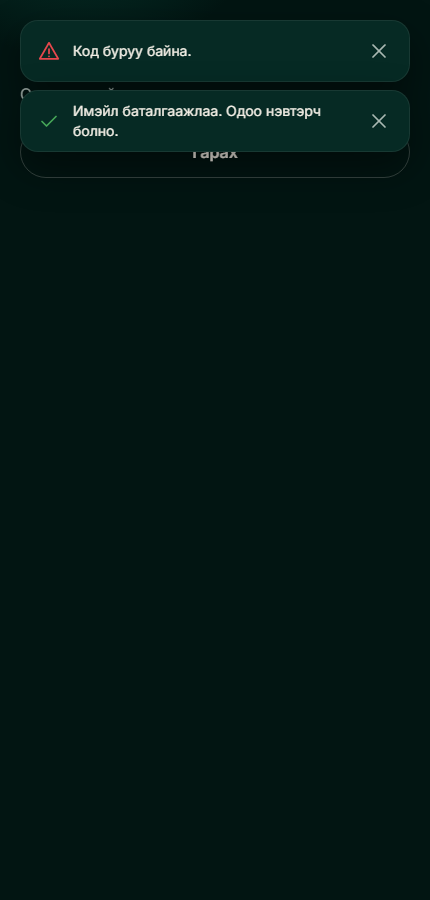
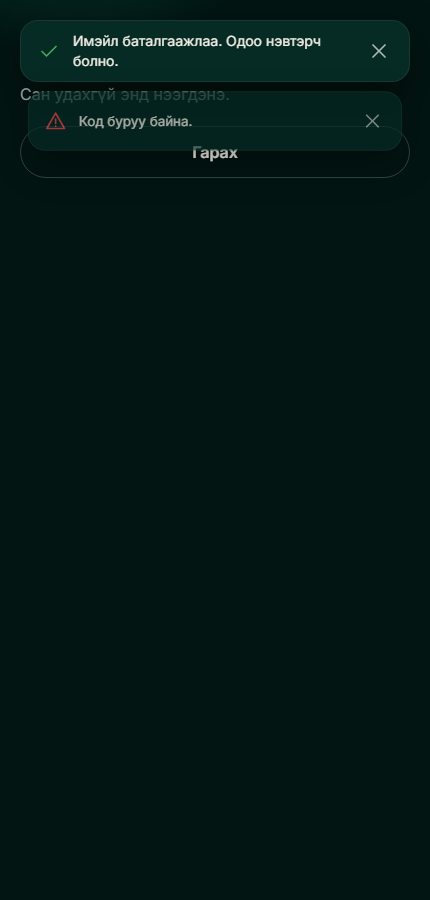
Terms/privacy links behind EXPO_PUBLIC_PORTAL_URL, login text links, toast stacking, device-gate runbook
mobile unit 100, tokens 13, auth e2e 10/10. Device gate NOT run (no Android SDK / EAS login on this machine).

Changed region(s): [[0.0605, 0.0311, 0.7558, 0.1867], [0.907, 0.0933, 0.9674, 0.1244], [0.8465, 0.1244, 0.907, 0.1556]]

diff --git a/docs/design/v2-screens/Home.dc.html b/docs/design/v2-screens/Home.dc.html
@@ -36,6 +36,12 @@ a{color:#F3EFE6;text-decoration:none}a:hover{color:#F3EFE6}
 @keyframes prog{from{width:34%}to{width:36%}}
 .hdr{transition:opacity .25s,transform .35s cubic-bezier(.22,1,.36,1)}
 .tab{transition:color .25s}
+.catcard{transition:transform .22s cubic-bezier(.3,1.4,.5,1)}
+.catcard .catimg{transition:transform .9s cubic-bezier(.22,1,.36,1)}
+.catcard .chev{transition:transform .35s cubic-bezier(.3,1.4,.5,1)}
+.catcard:hover .catimg,.catcard:active .catimg{transform:scale(1.08)}
+.catcard:hover .chev,.catcard:active .chev{transform:translateX(4px)}
+.catcard:active{transform:scale(.97)}
 @media (prefers-reduced-motion: reduce){*{animation:none!important;transition:none!important}}
 </style>
 </helmet>
@@ -129,14 +135,24 @@ a{color:#F3EFE6;text-decoration:none}a:hover{color:#F3EFE6}
         </div>
       </section>
 
-      <section class="in d5" aria-label="Ангилал">
-        <h2 style="margin: 0 0 12px; font-size: 20px; line-height: 26px; font-weight: 600;">Ангилал</h2>
-        <div style="display: grid; grid-template-columns: repeat(2, minmax(0, 1fr)); gap: 12px;">
+      <section class="in d5" aria-label="Сэдвээр сонсох">
+        <div style="display: flex; align-items: baseline; justify-content: space-between; margin-bottom: 12px;">
+          <h2 style="margin: 0; font-size: 20px; line-height: 26px; font-weight: 600;">Сэдвээр сонсох</h2>
+          <a href="Library.dc.html" style="font-size: 14px; color: #D4AF6A; font-weight: 500; min-height: 44px; display: flex; align-items: center; margin: -12px 0;">Бүгд ›</a>
+        </div>
+        <div style="display: flex; flex-direction: column; gap: 12px;">
           <sc-for list="{{cats}}" as="c" hint-placeholder-count="4">
-            <a href="Library.dc.html" class="press" style="position: relative; height: 92px; border-radius: 18px; overflow: hidden; padding: 14px; box-sizing: border-box; display: flex; flex-direction: column; justify-content: space-between; background: {{c.bg}}; box-shadow: inset 0 0 0 1px rgba(243,239,230,.07);">
-              <svg width="72" height="72" viewBox="0 0 24 24" fill="none" stroke="rgba(243,239,230,.10)" stroke-width="1.2" stroke-linecap="round" stroke-linejoin="round" style="position: absolute; right: -10px; bottom: -12px;"><path d="{{c.icon}}"></path></svg>
-              <span style="font-size: 16px; line-height: 22px; font-weight: 600;">{{c.name}}</span>
-              <span style="font-size: 12px; line-height: 16px; color: #C9D3CF;">{{c.count}}</span>
+            <a href="Library.dc.html" class="catcard" style="position: relative; height: 104px; border-radius: 20px; overflow: hidden; display: flex; align-items: center; background: #041F1A; box-shadow: inset 0 0 0 1px rgba(243,239,230,.08);">
+              <img src="{{c.img}}" alt="" class="catimg" style="position: absolute; left: 0; top: 0; width: {{c.imgW}}; height: 100%; object-fit: cover; object-position: {{c.pos}};">
+              <span style="position: absolute; inset: 0; background: linear-gradient(90deg, rgba(4,31,26,0) 18%, rgba(4,31,26,.78) 46%, #041F1A 64%);"></span>
+              <span style="position: absolute; left: 0; top: 0; bottom: 0; width: 3px; background: {{c.tint}};"></span>
+              <span style="position: relative; margin-left: 46%; flex: 1; min-width: 0; display: flex; flex-direction: column; gap: 2px;">
+                <span class="serif" style="font-size: 19px; line-height: 24px; font-weight: 600;">{{c.name}}</span>
+                <span style="font-size: 12px; line-height: 16px; color: #C9D3CF;">{{c.sub}}</span>
+              </span>
+              <span class="chev" style="position: relative; flex: none; width: 44px; height: 44px; margin-right: 8px; display: flex; align-items: center; justify-content: center;">
+                <svg width="18" height="18" viewBox="0 0 24 24" fill="none" stroke="#F3EFE6" stroke-width="2" stroke-linecap="round" stroke-linejoin="round"><path d="M9 6l6 6-6 6"></path></svg>
+              </span>
             </a>
           </sc-for>
         </div>
@@ -242,12 +258,14 @@ class Component extends DCLogic {
       ['№ 059', 'Анхаарал', 'Анхаарал төвлөрлийг сэргээх', '25 мин', G.t],
       ['№ 058', 'Утга учир', 'Ажлын утга учрыг олох', '31 мин', G.m]
     ].map(([n, t, full, d, bg], k) => ({ n, t, full, d, bg, delay: (0.3 + k * 0.06) + 's' }));
+    const ELDER = '/_blob/7e505eac9fd24b851203576d27700232';
+    const YURT = '/_blob/335c29b78659a83d96c0d22f8845b191';
     const cats = [
-      { name: 'Сэтгэл зүй', count: '24 дугаар', bg: 'linear-gradient(135deg,#0B4A3F,#04231D)', icon: 'M12 3a7 7 0 0 0-4 12.7V20h8v-4.3A7 7 0 0 0 12 3z' },
-      { name: 'Хувь хүний хөгжил', count: '18 дугаар', bg: 'linear-gradient(135deg,#3B2C14,#160F06)', icon: 'M4 20l5-9 4 6 3-4 4 7z' },
-      { name: 'Харилцаа', count: '12 дугаар', bg: 'linear-gradient(135deg,#123F4A,#061C22)', icon: 'M8 12a4 4 0 1 0 0-8 4 4 0 0 0 0 8zm8 8a4 4 0 1 0 0-8 4 4 0 0 0 0 8z' },
-      { name: 'Санхүү', count: '9 дугаар', bg: 'linear-gradient(135deg,#2C3D1A,#0F1A08)', icon: 'M4 18h16M6 14l4-4 3 3 5-6' }
-    ];
+      { name: 'Сэтгэл зүй', sub: '24 дугаар · Ухаан', img: ELDER, imgW: '62%', pos: '30% 30%', tint: '#2FA88A' },
+      { name: 'Хувь хүний хөгжил', sub: '18 дугаар', img: RIDERS, imgW: '70%', pos: '60% 60%', tint: '#D4AF6A' },
+      { name: 'Харилцаа', sub: '12 дугаар · Гэр бүл', img: YURT, imgW: '62%', pos: '40% 60%', tint: '#1C6E7F' },
+      { name: 'Санхүү', sub: '9 дугаар · Мөнгө', img: MOUNT, imgW: '70%', pos: '30% 50%', tint: '#B8934F' }
+    ].map((c, k) => ({ ...c, delay: (0.35 + k * 0.07) + 's' }));
     const L = this.state.left;
     const d = Math.floor(L / 86400), h = Math.floor((L % 86400) / 3600), m = Math.floor((L % 3600) / 60), s = L % 60;
     const pad = (x) => (x < 10 ? '0' + x : String(x));

diff --git a/apps/mobile/app/(auth)/welcome.tsx b/apps/mobile/app/(auth)/welcome.tsx
@@ -1,11 +1,20 @@
 import { useRouter } from 'expo-router';
-import { StyleSheet, Text, View } from 'react-native';
+import { Linking, StyleSheet, Text, View } from 'react-native';
 import { LinearGradient } from 'expo-linear-gradient';
 import { useSafeAreaInsets } from 'react-native-safe-area-context';
 import { layout, nativeTextStyle, spacing, themes, withAlpha } from '@ongod/tokens';
 import { CoverMarquee } from '../../src/components/CoverMarquee';
+import { env } from '../../src/config/env';
 import { mn } from '../../src/i18n/mn';
-import { AuroraBackground, Button, Enter, MountainLine, SurfaceProvider } from '../../src/ui';
+import { portalLink } from '../../src/lib/portalLink';
+import {
+  AuroraBackground,
+  Button,
+  Enter,
+  MountainLine,
+  PressableScale,
+  SurfaceProvider,
+} from '../../src/ui';
 
 const dark = themes.dark;
 
@@ -17,6 +26,8 @@ const dark = themes.dark;
 export default function Welcome() {
   const router = useRouter();
   const insets = useSafeAreaInsets();
+  // Hidden until the portal address is set (EXPO_PUBLIC_PORTAL_URL).
+  const termsUrl = portalLink(env.portalUrl, '/terms');
   return (
     <SurfaceProvider surface="dark">
       <View style={styles.root}>
@@ -48,6 +59,23 @@ export default function Welcome() {
               onPress={() => router.push('/register')}
             />
           </Enter>
+          {termsUrl ? (
+            <Enter index={4}>
+              <PressableScale
+                accessibilityRole="link"
+                accessibilityLabel={`${mn.legal.agreeBefore}${mn.legal.terms}${mn.legal.agreeAfter}`}
+                onPress={() => void Linking.openURL(termsUrl)}
+                haptics={false}
+                style={styles.terms}
+              >
+                <Text style={styles.termsText}>
+                  {mn.legal.agreeBefore}
+                  <Text style={styles.termsLink}>{mn.legal.terms}</Text>
+                  {mn.legal.agreeAfter}
+                </Text>
+              </PressableScale>
+            </Enter>
+          ) : null}
         </View>
       </View>
     </SurfaceProvider>
@@ -79,4 +107,7 @@ const styles = StyleSheet.create({
     ...nativeTextStyle('body'),
   },
   actions: { alignSelf: 'stretch', gap: spacing.sm, marginTop: spacing.lg },
+  terms: { minHeight: layout.touchTarget, justifyContent: 'center' },
+  termsText: { color: dark.textTertiary, textAlign: 'center', ...nativeTextStyle('caption') },
+  termsLink: { textDecorationLine: 'underline' },
 });

diff --git a/apps/mobile/app/(auth)/login.tsx b/apps/mobile/app/(auth)/login.tsx
@@ -8,7 +8,7 @@ import { AuthHeader } from '../../src/components/AuthHeader';
 import { SocialButtons } from '../../src/components/SocialButtons';
 import { mn } from '../../src/i18n/mn';
 import { useSubmit } from '../../src/lib/useSubmit';
-import { Button, Input, Screen, useToast } from '../../src/ui';
+import { Button, Input, Screen, TextLink, useToast } from '../../src/ui';
 
 /**
  * After the email code or a password reset the flow comes back to this screen with the email
@@ -67,30 +67,28 @@ function LoginForm({ email, notice }: { email: string | undefined; notice: strin
         textContentType="username"
         returnKeyType="next"
       />
-      <Input
-        label={mn.login.password}
-        value={password}
-        onChangeText={setPassword}
-        error={errors.password}
-        secureTextEntry
-        autoCapitalize="none"
-        autoComplete="current-password"
-        textContentType="password"
-        returnKeyType="go"
-        onSubmitEditing={() => void submit()}
-      />
-      <Button
-        label={mn.login.forgot}
-        variant="ghost"
-        onPress={() => router.push('/forgot-password')}
-      />
+      <View>
+        <Input
+          label={mn.login.password}
+          value={password}
+          onChangeText={setPassword}
+          error={errors.password}
+          secureTextEntry
+          autoCapitalize="none"
+          autoComplete="current-password"
+          textContentType="password"
+          returnKeyType="go"
+          onSubmitEditing={() => void submit()}
+        />
+        <TextLink label={mn.login.forgot} onPress={() => router.push('/forgot-password')} />
+      </View>
       <Button label={mn.login.submit} fullWidth loading={pending} onPress={() => void submit()} />
       <SocialButtons />
       <View style={styles.footer}>
         <Text style={styles.footerText}>{mn.login.noAccount}</Text>
-        <Button
+        <TextLink
           label={mn.login.register}
-          variant="ghost"
+          align="start"
           onPress={() => router.replace('/register')}
         />
       </View>

diff --git a/apps/mobile/src/ui/Toast.tsx b/apps/mobile/src/ui/Toast.tsx
@@ -53,11 +53,14 @@ const OFFSCREEN = 2;
 
 function ToastView({
   item,
+  older,
   closeLabel,
   durationMs,
   onDismiss,
 }: {
   item: ToastItem;
+  /** Not the newest: shown smaller and dimmer. */
+  older: boolean;
   closeLabel: string;
   durationMs: number;
   onDismiss: (id: number) => void;
@@ -100,7 +103,19 @@ function ToastView({
       }
     });
 
-  const animated = useAnimatedStyle(() => ({ transform: [{ translateY: y.value }] }));
+  // 0 = newest, 1 = older (scale .96, opacity 70%).
+  const dim = useSharedValue(0);
+  useEffect(() => {
+    dim.value = withSpring(older ? 1 : 0, springs.smooth);
+  }, [older, dim]);
+
+  const animated = useAnimatedStyle(() => ({
+    opacity: 1 - dim.value * (1 - motion.toastOlderOpacity),
+    transform: [
+      { translateY: y.value },
+      { scale: 1 - dim.value * (1 - motion.toastOlderScale) },
+    ],
+  }));
 
   return (
     <GestureDetector gesture={swipe}>
@@ -151,7 +166,11 @@ export function ToastProvider({
   );
   const show = useCallback<ToastApi['show']>((message, options) => {
     const id = nextId.current++;
-    setItems((all) => [...all.slice(-2), { id, message, tone: options?.tone ?? 'info' }]);
+    // At most `toastMax` at once: the oldest makes room for the new one.
+    setItems((all) => [
+      ...all.slice(-(motion.toastMax - 1)),
+      { id, message, tone: options?.tone ?? 'info' },
+    ]);
   }, []);
   const api = useMemo(() => ({ show }), [show]);
 
@@ -162,10 +181,12 @@ export function ToastProvider({
         pointerEvents="box-none"
         style={[hostStyles.host, { top: layout.screenPadding + insets.top }]}
       >
-        {items.map((item) => (
+        {/* Newest on top; the one below it is the older one. */}
+        {[...items].reverse().map((item, index) => (
           <ToastView
             key={item.id}
             item={item}
+            older={index > 0}
             closeLabel={closeLabel}
             durationMs={durationMs}
             onDismiss={dismiss}

diff --git a/apps/mobile/src/ui/TextLink.tsx b/apps/mobile/src/ui/TextLink.tsx
@@ -1,0 +1,42 @@
+import { StyleSheet, Text, View } from 'react-native';
+import { layout, nativeFontFamily, nativeTextStyle, type ThemeColors } from '@ongod/tokens';
+import { useThemedStyles } from './surface';
+import { PressableScale } from './usePressScale';
+
+/**
+ * A small text action (gold on dark, ink on cream), 14 pt, with a 44 pt tall touch area. For the
+ * secondary actions that must not look like buttons ("Нууц үгээ мартсан уу?"). Announced as a
+ * button.
+ */
+export function TextLink({
+  label,
+  onPress,
+  align = 'end',
+}: {
+  label: string;
+  onPress: () => void;
+  /** Where it sits in a full-width row. */
+  align?: 'start' | 'center' | 'end';
+}) {
+  const styles = useThemedStyles(makeStyles);
+  const justify = { start: 'flex-start', center: 'center', end: 'flex-end' } as const;
+  return (
+    <View style={[styles.row, { justifyContent: justify[align] }]}>
+      <PressableScale
+        accessibilityRole="button"
+        accessibilityLabel={label}
+        onPress={onPress}
+        style={styles.hit}
+      >
+        <Text style={styles.label}>{label}</Text>
+      </PressableScale>
+    </View>
+  );
+}
+
+const makeStyles = (c: ThemeColors) =>
+  StyleSheet.create({
+    row: { flexDirection: 'row' },
+    hit: { minHeight: layout.touchTarget, justifyContent: 'center' },
+    label: { color: c.accentText, ...nativeTextStyle('small'), fontFamily: nativeFontFamily.ui[500] },
+  });

diff --git a/apps/mobile/test/portal-link.test.ts b/apps/mobile/test/portal-link.test.ts
@@ -1,0 +1,21 @@
+import assert from 'node:assert/strict';
+import { test } from 'node:test';
+import { portalLink } from '../src/lib/portalLink';
+
+test('no portal URL: no link (the screens hide it)', () => {
+  assert.equal(portalLink(undefined, '/terms'), undefined);
+  assert.equal(portalLink('', '/terms'), undefined);
+  assert.equal(portalLink('   ', '/privacy'), undefined);
+});
+
+test('a portal URL gives the page address, trailing slashes removed', () => {
+  assert.equal(portalLink('https://portal.example.test', '/terms'), 'https://portal.example.test/terms');
+  assert.equal(portalLink('https://portal.example.test///', '/privacy'), 'https://portal.example.test/privacy');
+  assert.equal(portalLink(' http://192.168.1.5:3000 ', '/terms'), 'http://192.168.1.5:3000/terms');
+});
+
+test('anything that is not an http(s) address is refused', () => {
+  assert.equal(portalLink('javascript:alert(1)', '/terms'), undefined);
+  assert.equal(portalLink('ongod.example', '/terms'), undefined);
+  assert.equal(portalLink('ftp://example.test', '/terms'), undefined);
+});

diff --git a/apps/mobile/src/i18n/mn.ts b/apps/mobile/src/i18n/mn.ts
@@ -42,6 +42,15 @@ export const mn = {
     open: 'Дэлгүүр нээх',
   },
 
+  /** Legal pages on the portal; shown only when EXPO_PUBLIC_PORTAL_URL is set. */
+  legal: {
+    terms: 'Үйлчилгээний нөхцөл',
+    privacy: 'Нууцлалын бодлого',
+    /** "Үргэлжлүүлснээр Үйлчилгээний нөхцөл-ийг зөвшөөрнө." (the middle part is the link) */
+    agreeBefore: 'Үргэлжлүүлснээр ',
+    agreeAfter: '-ийг зөвшөөрнө.',
+  },
+
   welcome: {
     subtitle: 'Гишүүдэд зориулсан хаалттай аудио сан. Сонсож, өсөж, өөрийгөө нээ.',
     login: 'Нэвтрэх',

diff --git a/apps/mobile/src/lib/portalLink.ts b/apps/mobile/src/lib/portalLink.ts
@@ -1,0 +1,16 @@
+/**
+ * Address of a portal page, from the portal base URL setting (EXPO_PUBLIC_PORTAL_URL). Returns
+ * `undefined` when the setting is empty or is not an http(s) address, so screens hide the link
+ * instead of showing a dead one. The final domain is still open (docs/open-questions.md #9).
+ */
+export function portalLink(base: string | undefined, path: `/${string}`): string | undefined {
+  const trimmed = base?.trim().replace(/\/+$/, '');
+  if (!trimmed) return undefined;
+  try {
+    const url = new URL(trimmed);
+    if (url.protocol !== 'https:' && url.protocol !== 'http:') return undefined;
+    return `${trimmed}${path}`;
+  } catch {
+    return undefined;
+  }
+}

diff --git a/packages/tokens/src/design-md.test.ts b/packages/tokens/src/design-md.test.ts
@@ -105,6 +105,9 @@ test('motion tokens match DESIGN.md "Motion"', () => {
   assert.equal(motion.enter.staggerMs, 60);
   assert.equal(motion.enter.maxStagger, 8);
   assert.deepEqual([motion.pressScale, motion.pressScaleRound, motion.iconBounce], [0.96, 0.92, 1.12]);
+  assert.deepEqual([motion.toastMax, motion.toastOlderScale, motion.toastOlderOpacity], [2, 0.96, 0.7]);
+  assert.match(design, /at most 2 at once, 8 pt apart.*96% scale and 70% opacity/);
+  assert.equal(spacing.xs, 8);
   assert.equal(motion.shimmerMs, 1200);
   assert.equal(motion.carouselAutoMs, 4800);
   for (const ms of motion.ambientMs) assert.ok(ms >= 12000 && ms <= 19000);

diff --git a/apps/mobile/src/config/env.ts b/apps/mobile/src/config/env.ts
@@ -9,6 +9,8 @@ const clean = (value: string | undefined): string | undefined => {
 export const env = {
   /** e.g. http://10.0.2.2:3000 (no trailing slash, no /v1). */
   apiUrl: clean(process.env.EXPO_PUBLIC_API_URL)?.replace(/\/+$/, ''),
+  /** Portal base address (terms and privacy pages), e.g. https://<final domain>. Empty = no legal links. */
+  portalUrl: clean(process.env.EXPO_PUBLIC_PORTAL_URL),
   sentryDsn: clean(process.env.EXPO_PUBLIC_SENTRY_DSN),
   sentryEnvironment: clean(process.env.EXPO_PUBLIC_SENTRY_ENVIRONMENT) ?? 'development',
   iosStoreUrl: clean(process.env.EXPO_PUBLIC_IOS_STORE_URL),

diff --git a/packages/tokens/src/index.ts b/packages/tokens/src/index.ts
@@ -288,8 +288,11 @@ export const motion = {
   /** Sheet: dismiss when dragged past this share of its height, or flung faster than flingVelocity. */
   sheetDismissShare: 0.3,
   flingVelocity: 800,
-  /** Toast stays this long. */
+  /** Toast stays this long; at most `toastMax` show at once, the older one is scaled and dimmed. */
   toastMs: 4000,
+  toastMax: 2,
+  toastOlderScale: 0.96,
+  toastOlderOpacity: 0.7,
   /** Skeleton shown after a filter change. */
   skeletonHoldMs: 650,
   /** Equalizer bars: loop length per bar, start delay per bar, lowest scaleY. */

diff --git a/apps/mobile/src/ui/index.ts b/apps/mobile/src/ui/index.ts
@@ -25,6 +25,7 @@ export { Sheet, type SheetProps } from './Sheet';
 export { EpisodeRowSkeleton, Skeleton } from './Skeleton';
 export { SurfaceProvider, useSurface, useThemedStyles } from './surface';
 export { TabBar, type TabItem } from './TabBar';
+export { TextLink } from './TextLink';
 export { ToastProvider, useToast, type ToastTone } from './Toast';
 export { haptic } from './haptics';
 export { PressableScale, usePressScale, type PressableScaleProps } from './usePressScale';
